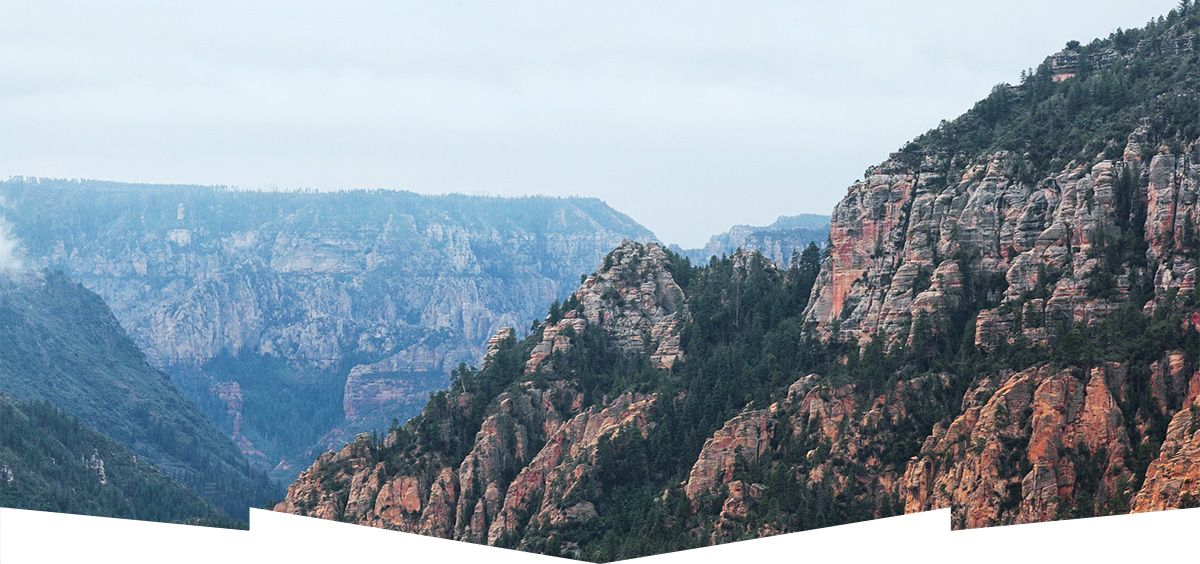
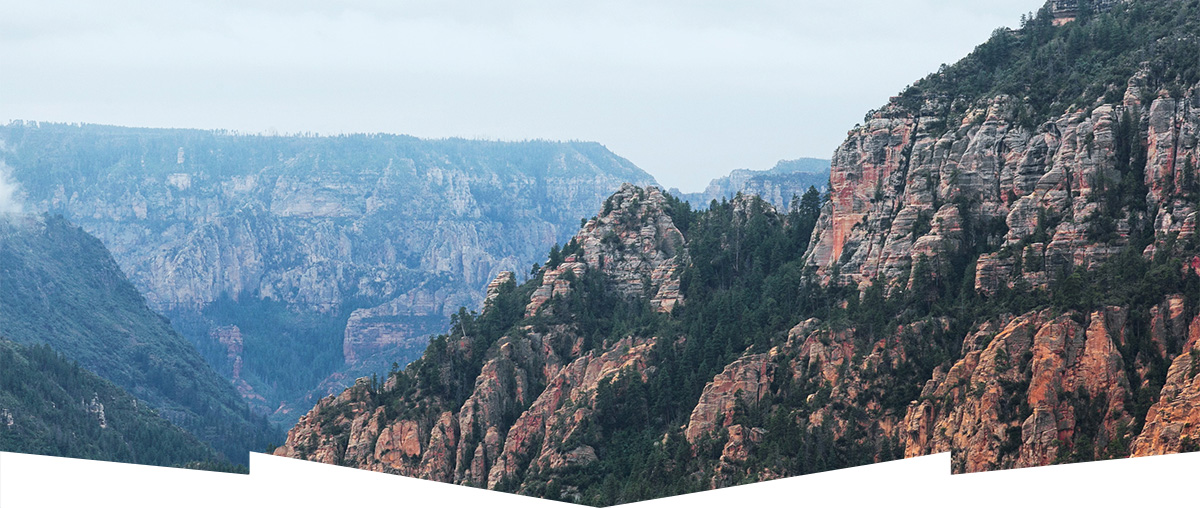
Правка после комментариев

diff --git a/index.html b/index.html
@@ -7,8 +7,8 @@
   </head>
   <body>
     <header class="main-header">
-      <div class="container">
-        <nav class="main-navigation clearfix">
+      <div class="container clearfix">
+        <nav class="main-navigation">
           <ul>
             <li>
               <a href="#">Информация</a>
@@ -31,10 +31,18 @@
     </header>
     <main class="container">
       <div class="promo-logo">
-        <img src="img/welcome-logo.png">
-        <img src="img/welcome-logo2.png">
-        <img src="img/welcome-logo3.png">
-        <img src="img/welcome-logo4.png">
+        <div class="promo-logo-pic1">
+          <img src="img/welcome-logo.png">
+        </div>
+        <div class="promo-logo-pic2">
+          <img src="img/welcome-logo2.png">
+        </div>
+        <div class="promo-logo-pic3">
+          <img src="img/welcome-logo3.png">
+        </div>
+        <div class="promo-logo-pic4">
+          <img src="img/welcome-logo4.png">
+        </div>
       </div>
       <div class="index-main-information">
         <div class="entry">
@@ -92,28 +100,28 @@
               <p>Большинство едет в Гранд Каньон и Толпится там</p>
             </div>
         </div>
+      </div>
       <div class="index-search">
         <h2 class="title-booking">Заинтересовались</h2>
         <p>Укажите предполагаемые даты поездки, и мы покажем вам лучшие предложения гостиниц в Седоне</p>
         <form  action="https://echo.htmlacademy.ru" method="post">
           <h3>Поиск гостиницы в Седоне</h3>
-          <p>Дата заезда</p>
-          <label>
-            <input type="text" value="24 апреля 2016">
+          <label for="date-start">
+            <p>Дата заезда</p>
           </label>
-          <p>Дата выезда</p>
-          <label>
-            <input type="text" value="4 июля 2016">
+          <input type="text" value="24 апреля 2016" id="date-start">
+          <label for="date-end">
+            <p>Дата выезда</p>
           </label>
-          <p>Взрослые</p>
-          <label>
-            <input type="text" value="2">
+          <input type="text" value="4 июля 2016" id="date-end">
+          <label for="adult">
+            <p>Взрослые</p>
           </label>
-          <p>Дата дети</p>
-          <label>
-            <input type="text" value="0">
+          <input type="text" value="2" id="adult">
+          <label for="children">
+            <p>Дата дети</p>
           </label>
-          <a class="btn" href="#">Найти</a>
+          <input type="text" value="0" id="children">
           <button class="btn" type="submit">Найти</button>
         </form>
       </div>

diff --git a/css/style.css b/css/style.css
@@ -6,17 +6,24 @@ body {
   font-family: PT Sans;
 }
 
+html,
+body {
+  width: 1200px;
+  margin: 0;
+  padding: 0;
+  margin-top: -7px;
+}
+
+.container:after,
 .clearfix:after {
   content: "";
   display: table;
   clear: both;
 }
 
-html,
-body {
+.container {
   width: 1200px;
-  margin: 0;
-  padding: 0;
+  margin: 0 auto;
 }
 
 h2.title-booking {
@@ -49,11 +56,6 @@ h2.catalog-filters-title {
   font-weight: bold;
 }
 
-.container {
-  width: 1200px;
-  margin: 0 auto;
-}
-
 .main-navigation {
   width: 1200px;
   min-height: 56px;
@@ -65,46 +67,55 @@ h2.catalog-filters-title {
   width: 20%;
   margin: 0 auto;
   text-align: center;
-  margin-left: -5px;
-}
-
-.main-navigation li:last-child {
-   width: 20%;
+  margin-left: -4px;
+  vertical-align: middle;
 }
 
 .main-footer {
-  margin-top: 34px;
-  margin-bottom: 37px;
+  margin-top: -200px;
+  width: 1200px;
 }
 
 .footer-hashtag {
   float: left;
-  width: 240px;
-  min-height: 49px;
-  margin-left: 72px;
-  margin-right: 88px;
+  width: 33.3%;
 }
 
 .footer-social {
   float: left;
-  width: 400px;
-  min-height: 49px;
-  margin-right: 88px;
+  width: 33.3%;
 }
 
 .footer-copyright {
-  float: left;
-  width: 241px;
-  min-height: 49px;
+  float: right;
+  width: 33.3%;
 }
 
 
 /* index.html index-main-information */
 .promo-logo {
   width: 1200px; 
-  min-height: 564px;
+  min-height: 508px;
   padding: 0px;
   background-image: url("../img/main-photo.jpg");
+  margin-top: -20px;
+  text-align: center;
+}
+
+.promo-logo-pic1 {
+  padding-top: 76px
+}
+
+.promo-logo-pic2 {
+  padding-top: 6px;
+}
+
+.promo-logo-pic3 {
+  padding-top: 46px;
+}
+
+.promo-logo-pic4 {
+  padding-top: 50px;
 }
 
 .index-main-information {
